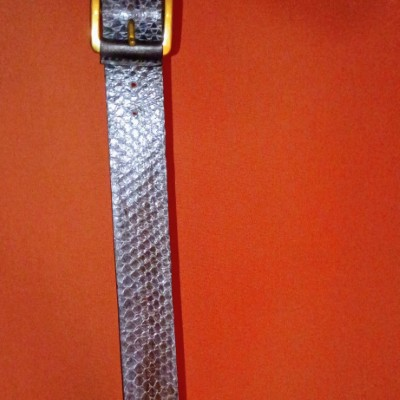
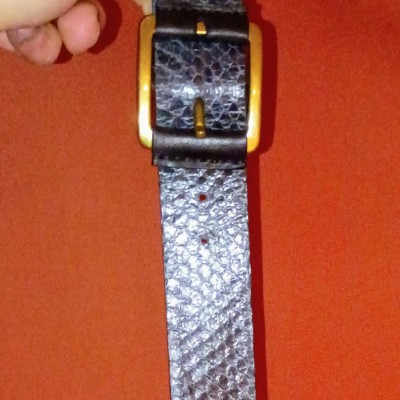
Better photo

diff --git a/leather.html b/leather.html
@@ -83,7 +83,7 @@ includeHTML();
                                     srcset = "
                                         resources/leather/SnakeBelt/2-400.jpg 400w,
                                         resources/leather/SnakeBelt/2-800.jpg 800w,
-                                        resources/leather/SnakeBelt/2-1600.jpg 1600w
+                                        resources/leather/SnakeBelt/2-1216.jpg 1600w
                                     " 
                                     sizes = "
                                         (max-width: 500px) 224px,
